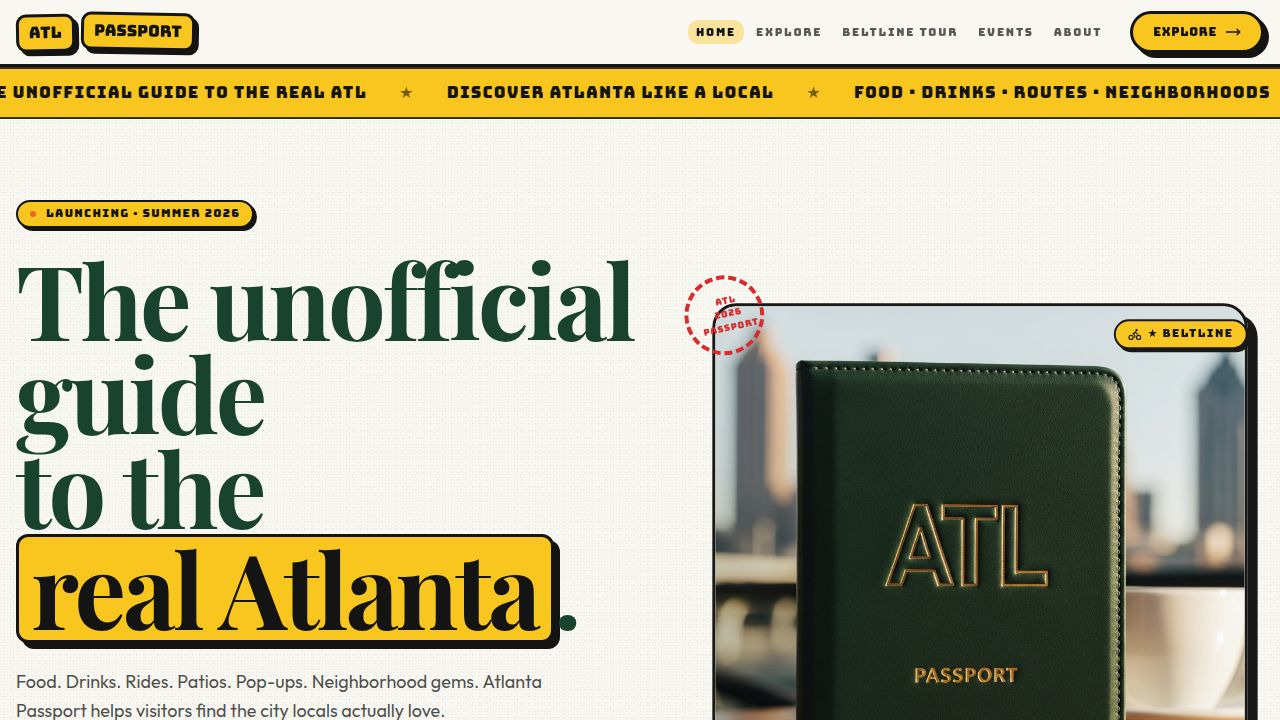
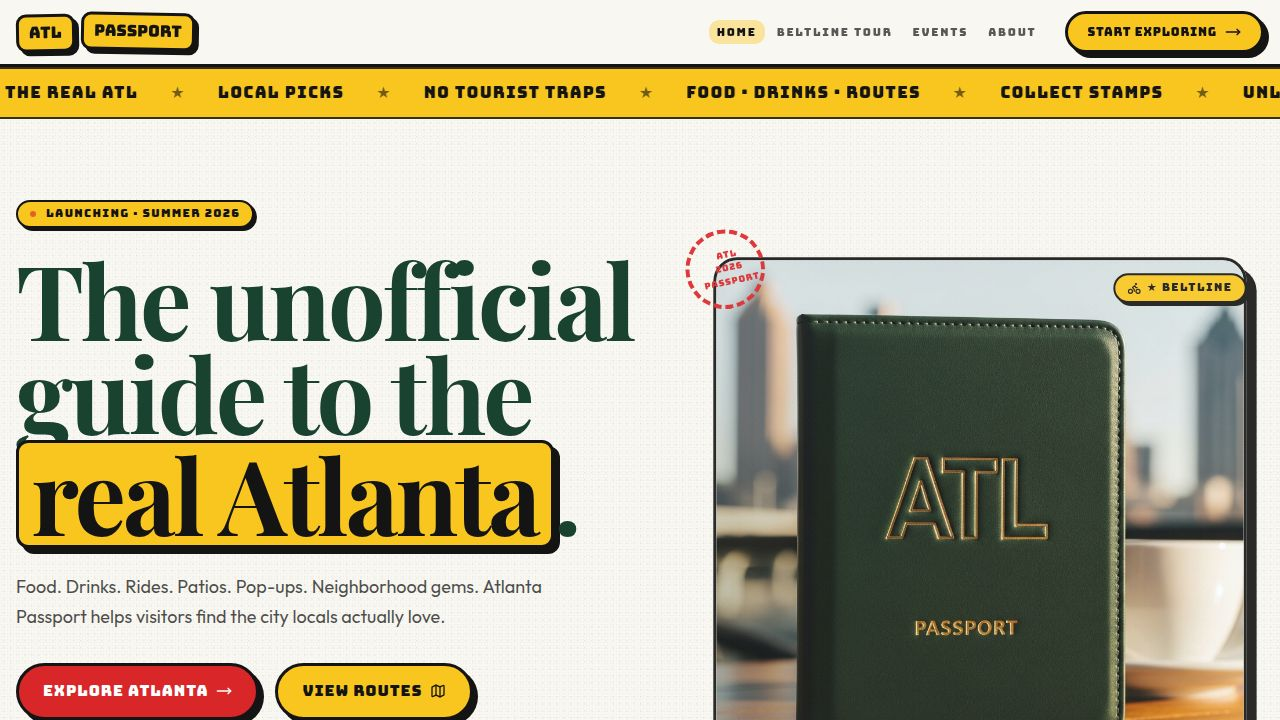
Improve website layout for better mobile viewing experience
Adjust styling of buttons, navigation, and page elements to ensure optimal display and usability on smaller screens, preventing overflow and improving overall responsiveness.

Replit-Commit-Author: Agent
Replit-Commit-Session-Id: 25761b92-5f6b-46b4-a26b-11accc64c439
Replit-Commit-Checkpoint-Type: full_checkpoint
Replit-Commit-Event-Id: 915628c1-9c2b-4945-a242-a942bf7c5b26
Replit-Commit-Screenshot-Url: https://storage.googleapis.com/screenshot-production-us-central1/fb9954b1-03a2-4563-bd46-f2c651216b72/25761b92-5f6b-46b4-a26b-11accc64c439/zlehgO8
Replit-Helium-Checkpoint-Created: true

diff --git a/artifacts/atlanta-passport/src/index.css b/artifacts/atlanta-passport/src/index.css
@@ -217,8 +217,14 @@
     @apply border-border;
   }
 
-  body {
+  html, body {
     @apply font-sans antialiased bg-background text-foreground selection:bg-primary/20 selection:text-primary;
+    overflow-x: hidden;
+    max-width: 100vw;
+  }
+  #root {
+    overflow-x: hidden;
+    max-width: 100vw;
   }
   
   h1, h2, h3, h4, h5, h6 {
@@ -316,14 +322,24 @@
     color: #fff;
     border: 3px solid hsl(var(--foreground));
     border-radius: 999px;
-    padding: 14px 24px;
+    padding: 12px 18px;
     font-family: var(--app-font-display);
-    font-size: 0.95rem;
-    letter-spacing: .06em;
+    font-size: 0.82rem;
+    letter-spacing: .04em;
     text-transform: uppercase;
     box-shadow: 5px 5px 0 0 hsl(var(--foreground));
     transition: transform .15s ease, box-shadow .15s ease;
     cursor: pointer;
+    min-width: 0;
+    max-width: 100%;
+    white-space: nowrap;
+  }
+  @media (min-width: 640px) {
+    .button-pop {
+      padding: 14px 24px;
+      font-size: 0.95rem;
+      letter-spacing: .06em;
+    }
   }
   .button-pop:hover {
     transform: translate(2px, 2px);

diff --git a/artifacts/atlanta-passport/src/pages/home.tsx b/artifacts/atlanta-passport/src/pages/home.tsx
@@ -106,12 +106,12 @@ export default function Home() {
                 visitors find the city locals actually love.
               </p>
 
-              <div className="flex flex-wrap gap-3 sm:gap-4 items-center mb-7">
-                <Link href="/explore" className="button-pop">
-                  Explore Atlanta <MoveRight className="w-4 h-4" />
+              <div className="grid grid-cols-2 sm:flex sm:flex-wrap gap-3 sm:gap-4 sm:items-center mb-7">
+                <Link href="/explore" className="button-pop w-full sm:w-auto">
+                  Explore <MoveRight className="w-4 h-4" />
                 </Link>
-                <Link href="/beltline" className="button-pop button-pop-yellow">
-                  View Routes <Map className="w-4 h-4" />
+                <Link href="/beltline" className="button-pop button-pop-yellow w-full sm:w-auto">
+                  Routes <Map className="w-4 h-4" />
                 </Link>
               </div>
 

diff --git a/artifacts/atlanta-passport/src/components/layout/Navbar.tsx b/artifacts/atlanta-passport/src/components/layout/Navbar.tsx
@@ -65,9 +65,9 @@ export default function Navbar() {
         <div className="md:hidden flex items-center gap-2">
           <Link
             href="/explore"
-            className="button-pop button-pop-yellow text-[10px] px-3 py-2"
+            className="button-pop button-pop-yellow text-[10px] px-3 py-2 whitespace-nowrap"
           >
-            Start Exploring
+            Explore
           </Link>
           <Sheet>
             <SheetTrigger asChild>

diff --git a/replit.md b/replit.md
@@ -44,6 +44,8 @@ Marketing site with: Home, Become a Partner (Starter $100 / Featured $300 / Prem
 
 **Home page order:** Marquee → Hero (Explore Atlanta + View Routes + horizontal chip nav) → Explore by Category → Featured Experience (Beltline + numbered route stops) → Routes & Collections (with stops/miles/pace metrics) → Selected Local Spots ("worth leaving the hotel for") → Neighborhoods (alternating cream cards reduce saturation) → How It Works (compact 4 steps) → Manifesto (red block, moved lower) → Business CTA ("Put your business on Atlanta's route map" / Get Listed) → Footer.
 
+**Mobile safety:** `html/body/#root` have `overflow-x:hidden + max-width:100vw` to prevent rogue horizontal scroll from decorative offsets/stamps. `.button-pop` is `nowrap` with smaller padding/font (12px 18px / 0.82rem) on mobile and full size (14px 24px / 0.95rem) at sm+. Hero CTAs use `grid grid-cols-2 sm:flex` so two short-labeled buttons share a row on iPhone widths. Mobile navbar CTA is short ("Explore"); desktop nav uses "Start Exploring".
+
 **Brand primitives (in `src/index.css`):** `.card-pop`, `.button-pop` (+`-yellow`/`-cream`/`-dark`), `.badge-sticker`, `.sticker-pill` + `.sticker-{yellow,red,cream,navy,lime,sky,orange}`, `.section-kicker`, `.highlight-yellow`, `.hero-title` (mobile clamp 2.25rem), `.passport-stamp`, `.texture-paper`, `.section-tight` / `.section-hero` (mobile-first spacing: 56px / 88px), `.shadow-pop`/`-sm`/`-lg`, `.dot-grid`, `.bg-paper`, `.route-line`, `.progress-track`/`.progress-fill`, `.form-progress-track`/`.form-progress-fill`, `.scroll-fade-r` + `.sm:no-fade` (right-edge mask for horizontal scrollers, disables on sm+). **Reusable React components:** `<Sticker color rotate icon>` and `<PassportStamp size tone rotate>`. Bungee display font; brand palette tokens (`brand-yellow/red/sky/navy/gold/lime/orange/cream` + `brand-yellow-foreground`). Marquee animates 22s mobile / 38s desktop.
 
 **Page conventions:** Events cards use bold typographic date tiles (parsed Month + Day) instead of shared photos. Listing pages show a stamp preview + real Google Maps deep-link (no fake QR/scan UI). Apply form has a sticky `top-16` progress strip showing live `completed/total` of required fields; package picker is 3 tiers (Starter/Featured/Premier) with a text-link "Request a custom package" that selects the `custom` enum.
